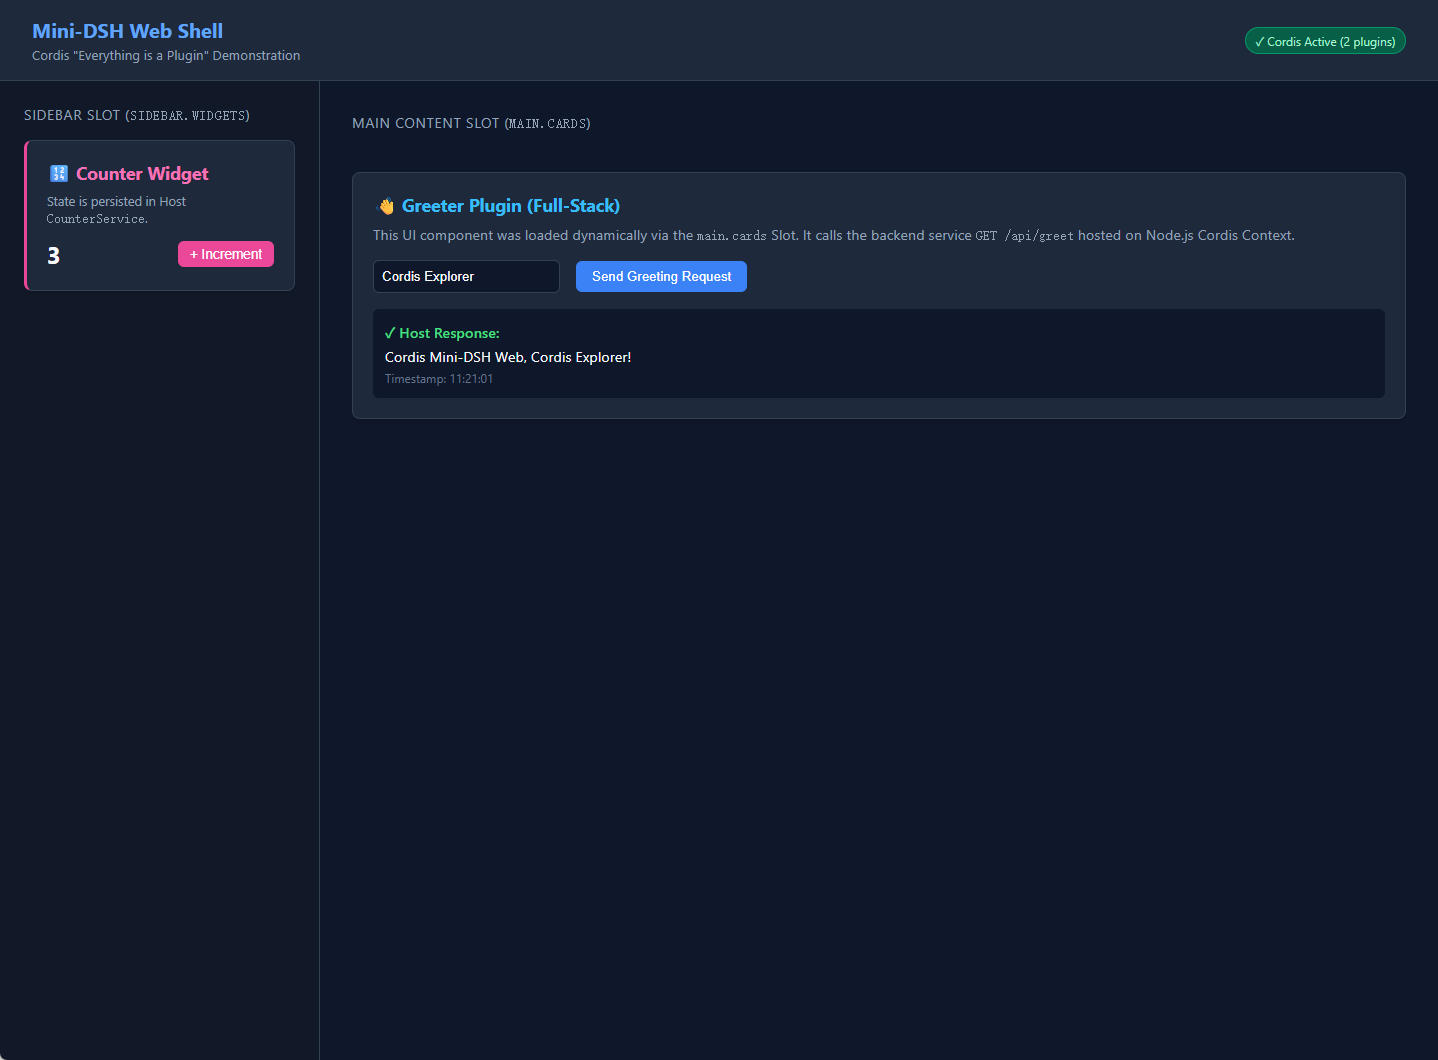
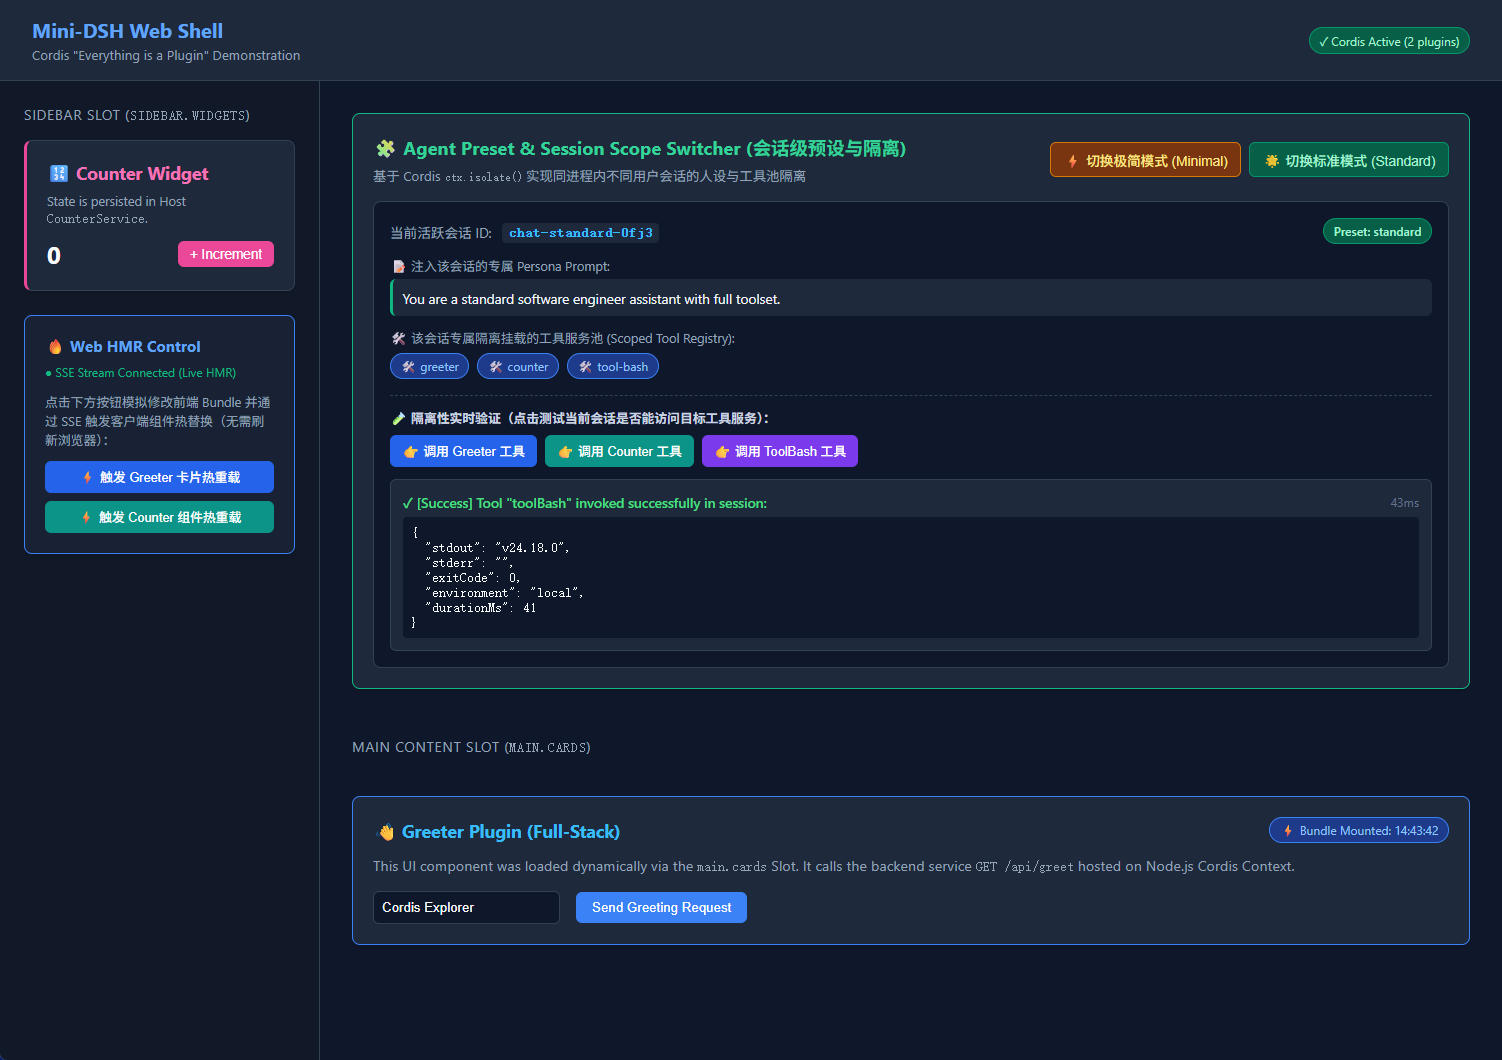
docs: update CHANGELOG for v0.7.0, embed updated home.jpg in README and beginner guide

diff --git a/CHANGELOG.md b/CHANGELOG.md
@@ -7,6 +7,23 @@ and this project adheres to [Semantic Versioning](https://semver.org/spec/v2.0.0
 
 ---
 
+## [0.7.0] - 2026-08-18
+
+### Added (Web 端双端联动 HMR 与 Web GUI 会话预设切换器)
+- **Web 端全栈双端联动 HMR**：
+  - `packages/host/hmr` 扩展支持 `/api/hmr/events` SSE 广播流，自动监听 `packages/plugins/*/lib/client.js` 产物变动并推送重载事件；提供 `POST /api/hmr/trigger` 手动触发接口。
+  - `packages/client/shell` 建立 EventSource 连接，收到事件后自底向上执行 `oldFiber.dispose()` 卸载旧组件，带时间戳动态 `import()` 重新装配新组件，零页面刷新并弹出 Toast 动画。
+  - 根目录增加 `pnpm watch:greeter` 前端实时监听构建脚本。
+- **Web GUI 会话预设交互面板与作用域隔离验证（Preset Scope Switcher）**：
+  - Web 界面主区域顶部新增 `Agent Preset & Session Scope Switcher` 交互面板，支持一键切换 `minimal` 与 `standard` 预设模式。
+  - 动态展示当前会话的 Persona Prompt 与隔离挂载的工具服务池（Scoped Tool Registry）。
+  - 提供实时工具调用验证接口 `POST /api/sessions/invoke` 与多工具测试按钮。
+  - 修复动态匿名 Session 子上下文下的服务检索：使用 Cordis 官方反射 API `sCtx.get('serviceName')` 替代直接属性访问，规避注入守卫拦截。
+- **文档与视觉更新**：
+  - 更新 `home.jpg` 运行全景图并在 `README.md` 与 `docs/beginner-guide.md` 中嵌入展示。
+
+---
+
 ## [0.6.0] - 2026-08-18
 
 ### Added (Schemastery 声明式配置校验与 HMR 实时热重载)

diff --git a/README.md b/README.md
@@ -2,6 +2,8 @@
 
 本项目是一个极简版（Educational & Minimalist）的 DeepSeek Harness 架构实现，专门用于学习与验证 **Cordis** 框架的核心设计哲学：**“Everything is a plugin”（一切皆插件）**。
 
+![Mini-DSH Web Shell](home.jpg)
+
 > 📖 **推荐必读学习指南**：
 > - 🚀 [**《从 CLI 启动到浏览器端动态插件加载全流程》**](docs/beginner-guide.md)：全流程时序图、`window.__MINI_BOOT__` 详解、`client-shell.js` 运作机制与 DSH 源码对标！
 > - 🛡 [**《Capability Seam（能力接缝）与可移植执行世界深入指南》**](docs/capability-seams.md)：Service Definition / Provider / Consumer 三元角色模型与本地/云端沙箱无感切换！

diff --git a/docs/beginner-guide.md b/docs/beginner-guide.md
@@ -2,6 +2,8 @@
 
 本文档专为初学者编写，详细拆解 **Mini-DSH** 从命令行输入 `pnpm start` 开始，到浏览器渲染出各个插件 UI 的**完整端到端生命周期**。通过本文档，你可以彻底搞懂 Cordis 插件机制、Host 与 Client 双端通信、启动清单（`window.__MINI_BOOT__`）、UI 插槽系统以及**插件的停用与重启加载**运作原理。
 
+![Mini-DSH Web Shell](../home.jpg)
+
 ---
 
 ## 目录
